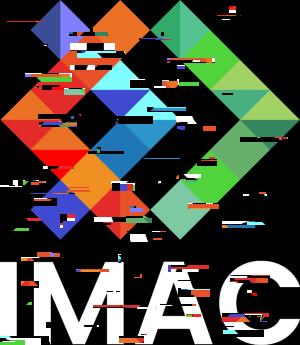
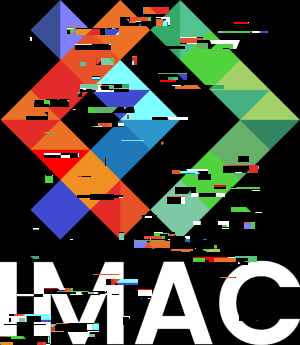
debut convolution vrai

diff --git a/src/main_lison.cpp b/src/main_lison.cpp
@@ -534,7 +534,7 @@ void main_lison()
         for(int y {0}; y<image.height(); y++){
             int i {0}, j {0};
             int iter {0};
-            if((x>=6 && x<image.width()-10) && (y>=10 && y<image.height()-6)){
+            if((x>=6 && x<image.width()-6) && (y>=6 && y<image.height()-6)){
                 for(i; i<6; i++){
                     for(j; j<6; j++){
                         image.pixel(x, y) += image.pixel(x+i, y+j)+image.pixel(x-i, y-j);
@@ -544,6 +544,31 @@ void main_lison()
                 image.pixel(x, y) /= glm::vec3(iter);
             }
             
+        }
+    }
+    image.save("output_l/convolution_boucles.png");
+}
+{
+    //Avec matrices -> le vrai, normalement
+    sil::Image image {"images/logo.png"};
+    std::vector<std::vector<float>> kernel {
+        {1.f/9.f, 1.f/0.9f, 1.f/9.f},
+        {1.f/9.f, 1.f/0.9f, 1.f/9.f},
+        {1.f/9.f, 1.f/0.9f, 1.f/9.f},
+    };
+    int coordx {0};
+    int coordy {0};
+    for(int x {0}; x<image.width(); x++){
+        for(int y {0}; y<image.height(); y++){
+            
+            for(int i {-(static_cast<int>(kernel.size()))/2}; i<(static_cast<int>(kernel.size())); i++){
+                for(int j {-(static_cast<int>(kernel.size()))/2}; j<(static_cast<int>(kernel.size())); j++){
+                    coordx = x+i;
+                    coordy = y+i;
+                    image.pixel(x, y) *= glm::vec3(kernel[i][j]);
+                }
+            }
+
         }
     }
     image.save("output_l/convolution.png");
